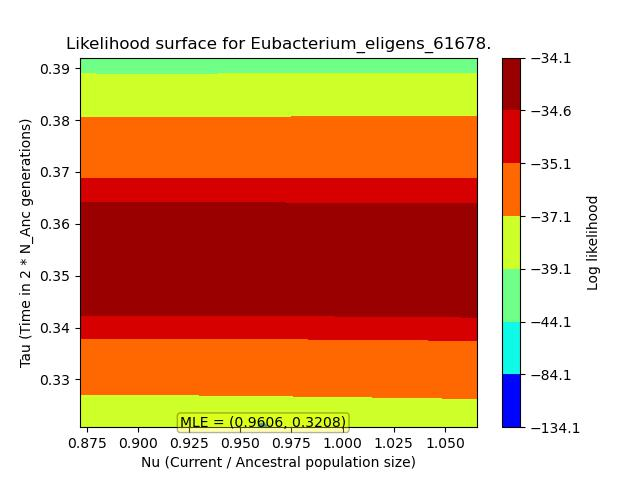
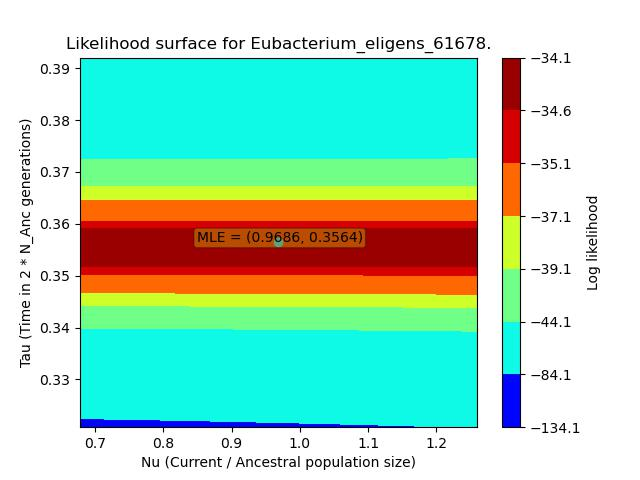
E. eligens

diff --git a/Scripts/plot_likelihood.py b/Scripts/plot_likelihood.py
@@ -469,16 +469,16 @@ class PlotLikelihood():
                 npts = 25
 
                 # B. cellulosilyticus
-                # x_range = numpy.linspace(x * 0.7, x * 1.3, npts)
-                # y_range = numpy.linspace(y  * 0.9, y * 1.3, npts)
+                # x_range = numpy.linspace(x * 0.90, x * 1.1, npts)
+                # y_range = numpy.linspace(y  * 0.90, y * 1.1, npts)
 
                 # E. eligens
-                # x_range = numpy.linspace(x * 0.7, x * 1.3, npts)
-                # y_range = numpy.linspace(y * 0.95, y * 1.05, npts)
+                x_range = numpy.linspace(x * 0.7, x * 1.3, npts)
+                y_range = numpy.linspace(y * 0.90, y * 1.1, npts)
                 
                 # Oscillibacter species
-                x_range = numpy.linspace(x * 0.90, x * 1.1, npts)
-                y_range = numpy.linspace(y * 0.90, y * 1.1, npts)
+                # x_range = numpy.linspace(x * 0.90, x * 1.1, npts)
+                # y_range = numpy.linspace(y * 0.90, y * 1.1, npts)
 
                 X, Y = numpy.meshgrid(x_range, y_range)
 
